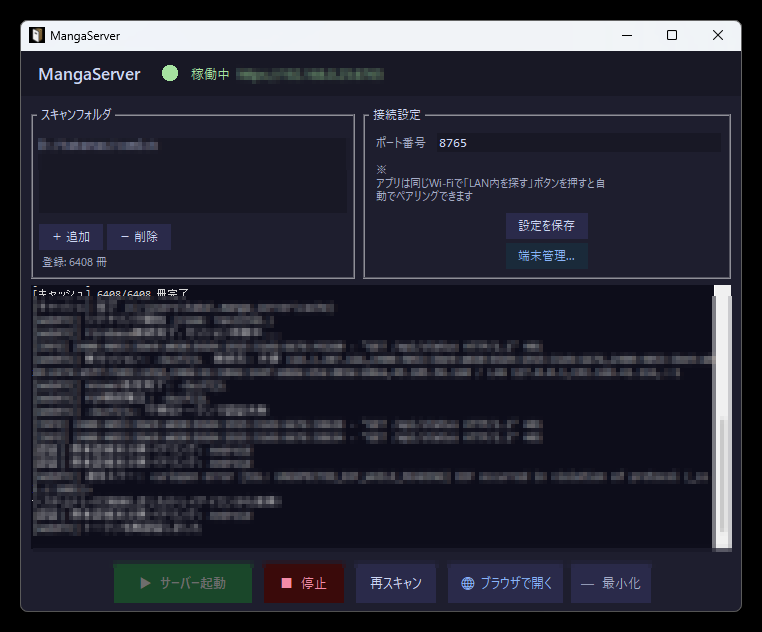
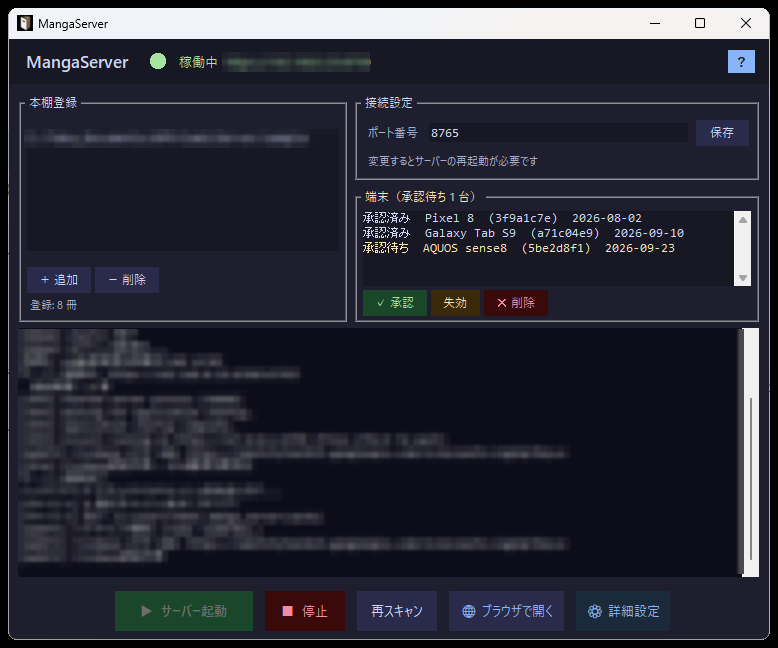
docs: 使い方ガイドのサーバー画面を新しいGUIに差し替え
右下の「端末」欄で承認する今の画面に撮り直した。URL・フォルダのパス・ログにはモザイクをかけてある（端末名は撮影用の架空のもの）。

diff --git a/docs/guide.html b/docs/guide.html
@@ -152,7 +152,7 @@
 
     <div class="step">
       <div class="img-col">
-        <img src="images/server.png" alt="ArcHiveサーバーのPC画面。本棚フォルダの一覧、接続設定、接続端末の管理画面。">
+        <img src="images/server.png" alt="ArcHiveサーバーのPC画面。本棚フォルダの一覧、接続設定、右下に端末の一覧と承認ボタン。">
       </div>
       <div class="text-col">
         <div class="step-num">1</div>
